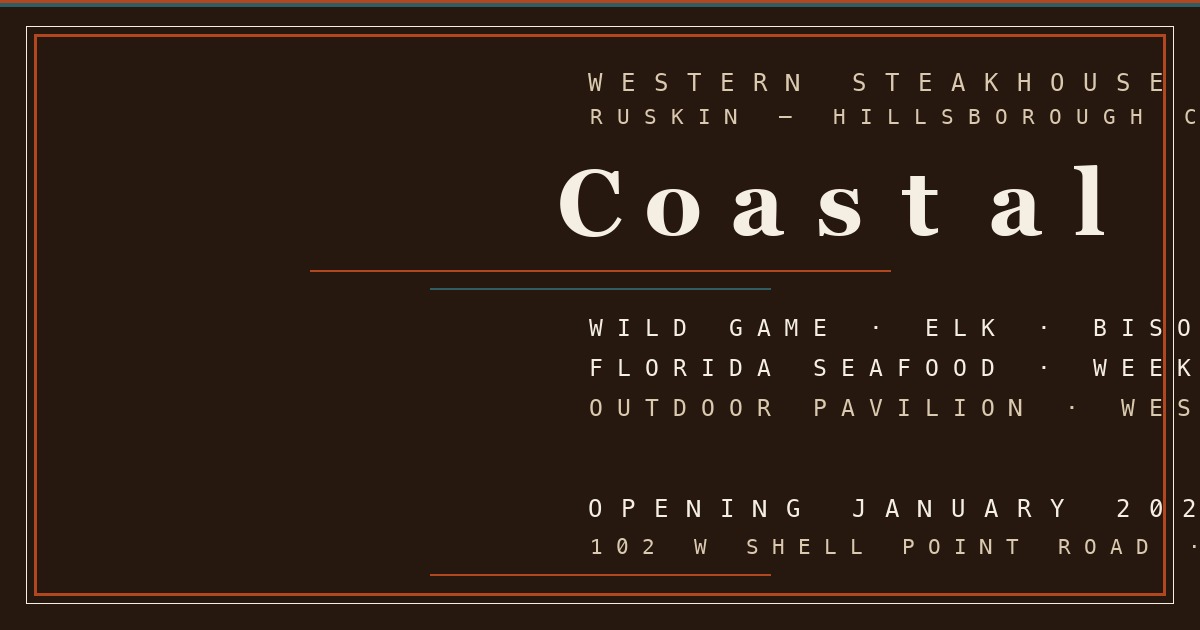
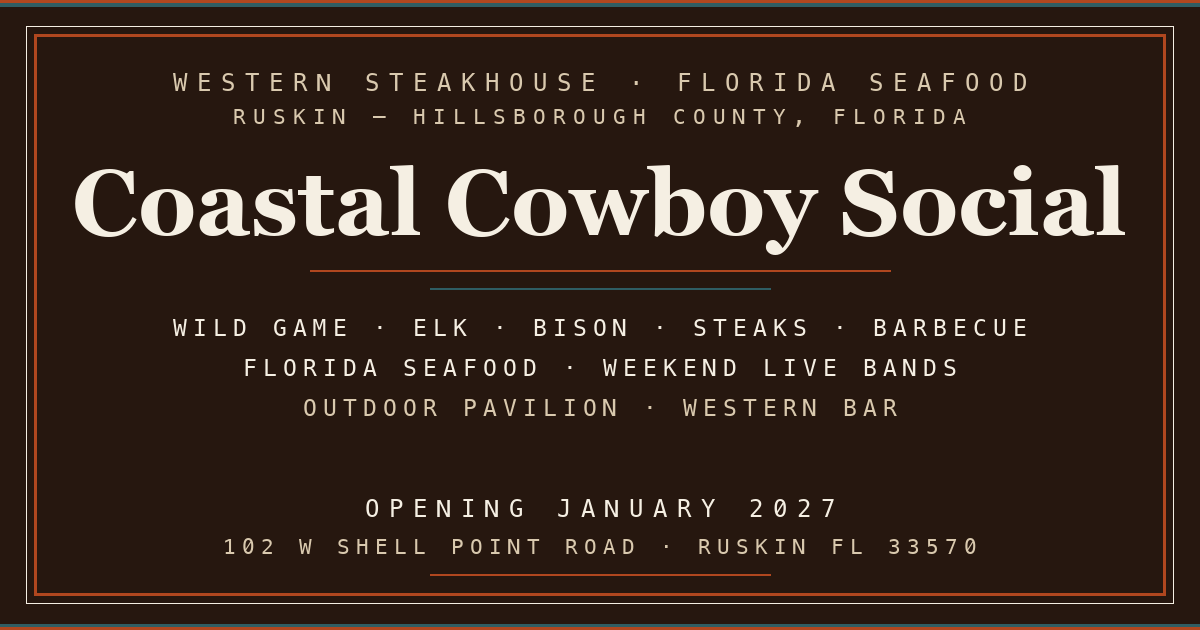
fix og.png: width helper accumulation bug (right-overflow), mirror rope bottom

diff --git a/make_og.py b/make_og.py
@@ -24,14 +24,14 @@ def M(size):
 def tw(d, t, f, tr=0):
     total = 0
     for ch in t:
-        total = d.textbbox((0, 0), ch, font=f)[3] + tr
+        total += f.getlength(ch) + tr
     return total - tr
 
 def text(d, x, y, t, f, fill, tr=0):
     cx = x
     for ch in t:
         d.text((cx, y), ch, font=f, fill=fill)
-        cx += d.textbbox((0, 0), ch, font=f)[3] + tr
+        cx += f.getlength(ch) + tr
 
 def center(d, y, t, f, fill, tr=0):
     text(d, (W - tw(d, t, f, tr)) // 2, y, t, f, fill, tr)
@@ -39,9 +39,11 @@ def center(d, y, t, f, fill, tr=0):
 img = Image.new("RGB", (W, H), INK)
 d = ImageDraw.Draw(img)
 
-# brand rope: rust over teal, full width
+# brand rope: rust over teal top, mirrored teal over rust bottom
 d.rectangle((0, 0, W - 1, 3), fill=RUST)
 d.rectangle((0, 3, W - 1, 6), fill=TEAL)
+d.rectangle((0, H - 6, W - 1, H - 4), fill=TEAL)
+d.rectangle((0, H - 3, W - 1, H - 1), fill=RUST)
 # double outline frame: bone outer, rust inner
 d.rectangle((26, 26, W - 27, H - 27), outline=BONE, width=1)
 d.rectangle((34, 34, W - 35, H - 35), outline=RUST, width=3)
